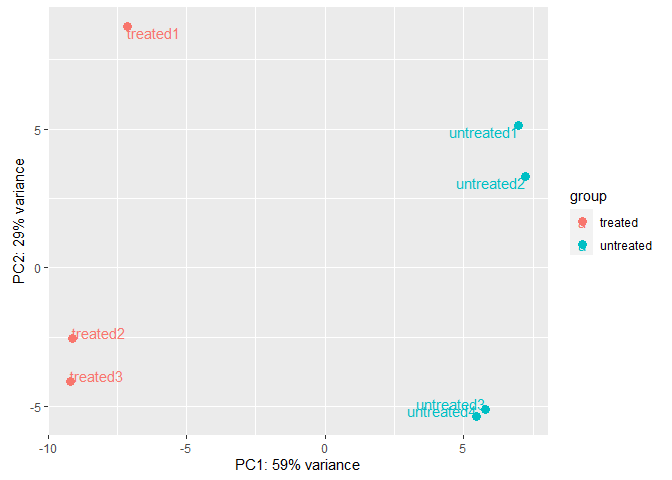
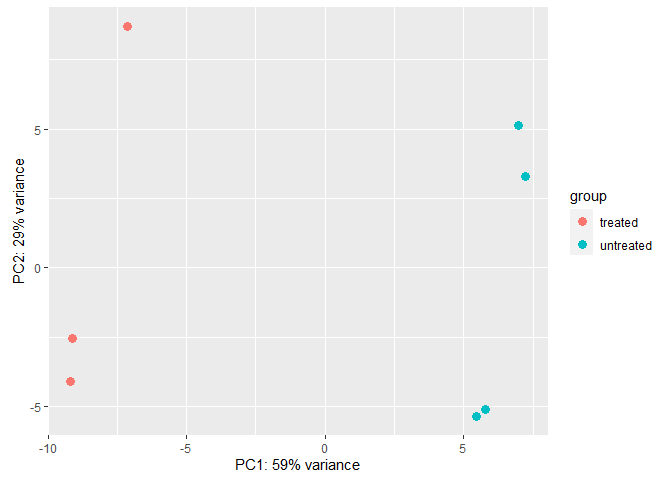
feat:DESeqObjPCA增加label=FALSE

diff --git a/vignettes/base.md b/vignettes/base.md
@@ -1,5 +1,4 @@
-RNAseq 工作流程
----------------
+## RNAseq 工作流程
 
     library(RNAseqFlow)
     input = createCountPhe()
@@ -17,8 +16,7 @@ RNAseq 工作流程
 
     DEsig = row.names(res)[res$regulate!="Normal"]
 
-富集分析
---------
+## 富集分析
 
 加载一些程序包：
 
@@ -35,10 +33,6 @@ RNAseq 工作流程
 
     keggRes = KEGG(DEsig,type="ENSEMBL",organism="dme",db=org.Dm.eg.db);
     head(keggRes)
-    #>                ID                                 Description GeneRatio  BgRatio       pvalue   p.adjust
-    #> dme04141 dme04141 Protein processing in endoplasmic reticulum     11/77 135/3263 0.0002598714 0.01481267
-    #>              qvalue                                                               geneID Count
-    #> dme04141 0.01449809 318098/36310/39474/35480/3355079/43785/34433/32180/44921/48582/48583    11
 
 值得注意的是，当进行KEGG或gseKEGG时，如果物种是人类，那么基因名为ENTREZID时，对应的keyType是“kegg”或“ncbi-geneid”。当对其它物种进行分析时，ENTREZID对应的是ncbi-geneid。
 
@@ -48,29 +42,9 @@ RNAseq 工作流程
     names(geneList)=row.names(res)
     gseagoRes = GSEAgo(geneList,type="ENSEMBL",db=org.Dm.eg.db)
     head(gseagoRes)
-    #>                    ID                                          Description setSize enrichmentScore
-    #> GO:0034620 GO:0034620                cellular response to unfolded protein      31      -0.7915683
-    #> GO:0006986 GO:0006986                         response to unfolded protein      33      -0.7833215
-    #> GO:0035967 GO:0035967 cellular response to topologically incorrect protein      45      -0.7009554
-    #> GO:0042026 GO:0042026                                    protein refolding      16      -0.8571092
-    #> GO:0035966 GO:0035966          response to topologically incorrect protein      47      -0.6964722
-    #>                  NES       pvalue   p.adjust    qvalues rank                  leading_edge
-    #> GO:0034620 -2.251655 6.911188e-06 0.01024721 0.01024721  297 tags=23%, list=3%, signal=22%
-    #> GO:0006986 -2.266891 7.655743e-06 0.01024721 0.01024721  297 tags=21%, list=3%, signal=21%
-    #> GO:0035967 -2.154785 1.585020e-05 0.01414366 0.01414366  451 tags=22%, list=4%, signal=21%
-    #> GO:0042026 -2.149696 4.627369e-05 0.03096867 0.03096867  104 tags=44%, list=1%, signal=43%
-    #> GO:0035966 -2.166721 7.912020e-05 0.04236095 0.04236095  451 tags=21%, list=4%, signal=20%
-    #>                                                                          core_enrichment
-    #> GO:0034620                         Gba1b/CG1924/Hsc70-2/Hsp70Ba/Hsp70Bbb/Hsp70Ba/Hsp70Ba
-    #> GO:0006986                         Gba1b/CG1924/Hsc70-2/Hsp70Ba/Hsp70Bbb/Hsp70Ba/Hsp70Ba
-    #> GO:0035967 CG32640/Gba1b/CG1924/CG32640/Hsc70-2/Hsp70Ba/Hsp70Bbb/Hsp70Ba/Hsp70Ba/CG32581
-    #> GO:0042026                         Hsp27/Hsp60A/Hsc70-2/Hsp70Ba/Hsp70Bbb/Hsp70Ba/Hsp70Ba
-    #> GO:0035966 CG32640/Gba1b/CG1924/CG32640/Hsc70-2/Hsp70Ba/Hsp70Bbb/Hsp70Ba/Hsp70Ba/CG32581
     if(nrow(gseagoRes)>=1){
       print(gseaplot(gseagoRes,geneSetID=gseagoRes$ID[1],title=paste("BP : ",gseagoRes$Description[1],sep="")))
     }
-
-![](../Figs/unnamed-chunk-6-1.png)
 
 ### KEGG的GSEA分析
 
@@ -82,3 +56,7 @@ RNAseq 工作流程
     }
 
 ![](../Figs/unnamed-chunk-7-1.png)
+
+## Todo
+
+GSEAGO出错

diff --git a/README.md b/README.md
@@ -13,12 +13,4 @@ devtools::install_github("Feng-Zhang/RNAseqFlow@dev") #安装开发版
 
 ## 使用
 
-## Todo
 
-KEGG函数出错，Error in ans[ypos] <- rep(yes, length.out = len)[ypos] : 更换参数长度为零
-
-is.null(degKegg)没有用，改用nrow
-
-GSEAkegg增加保存图片函数
-
-overallGSEA要接GSEAkegg函数后面，直接画图。需要转换为数据框
